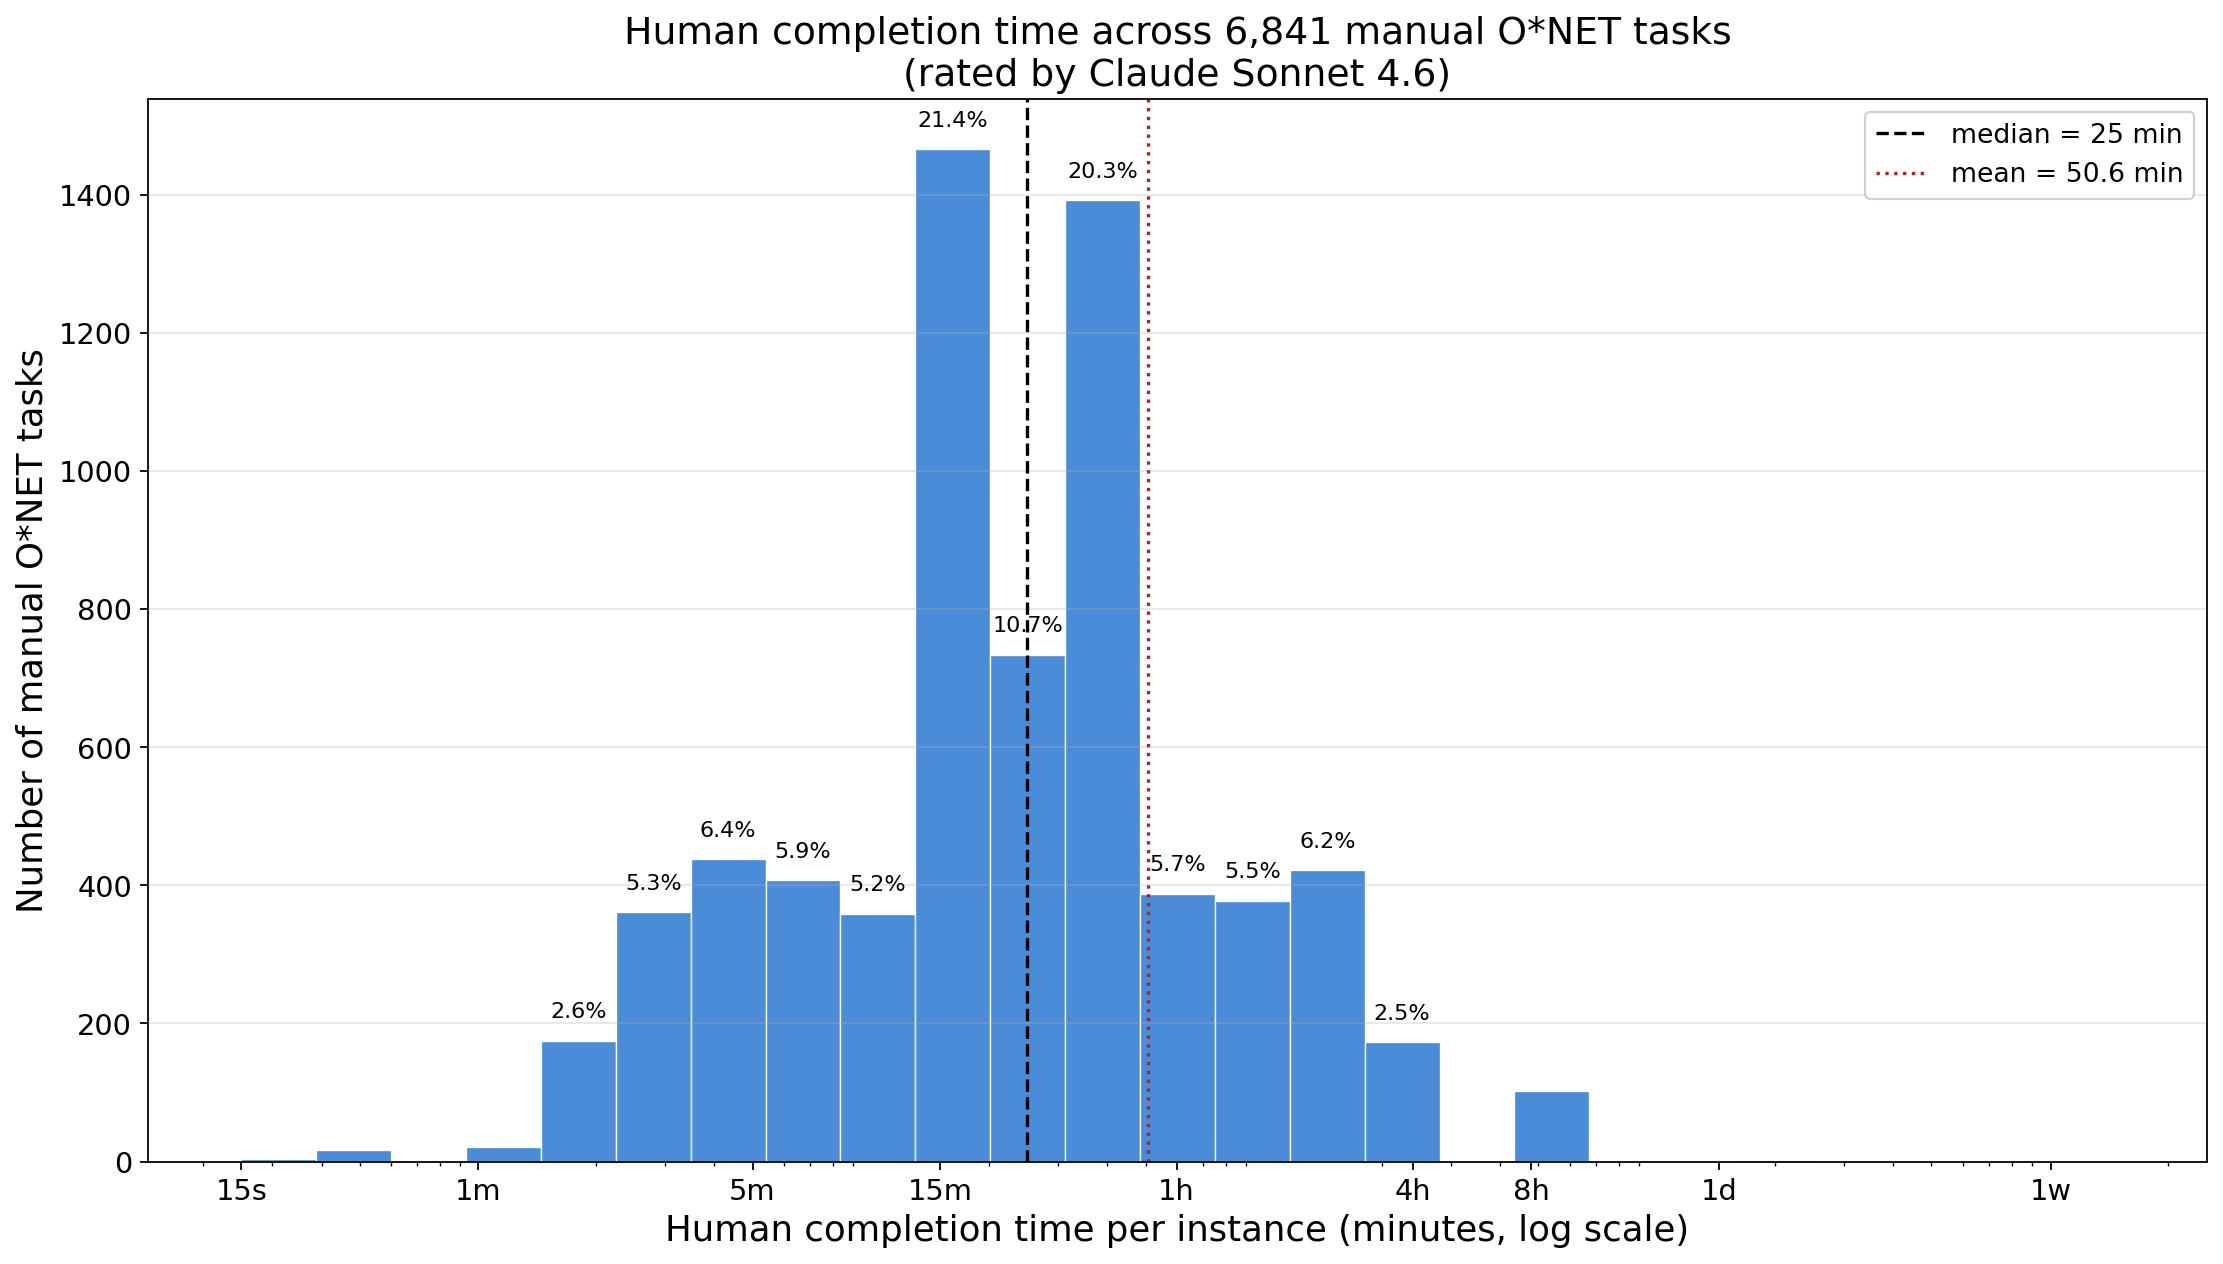
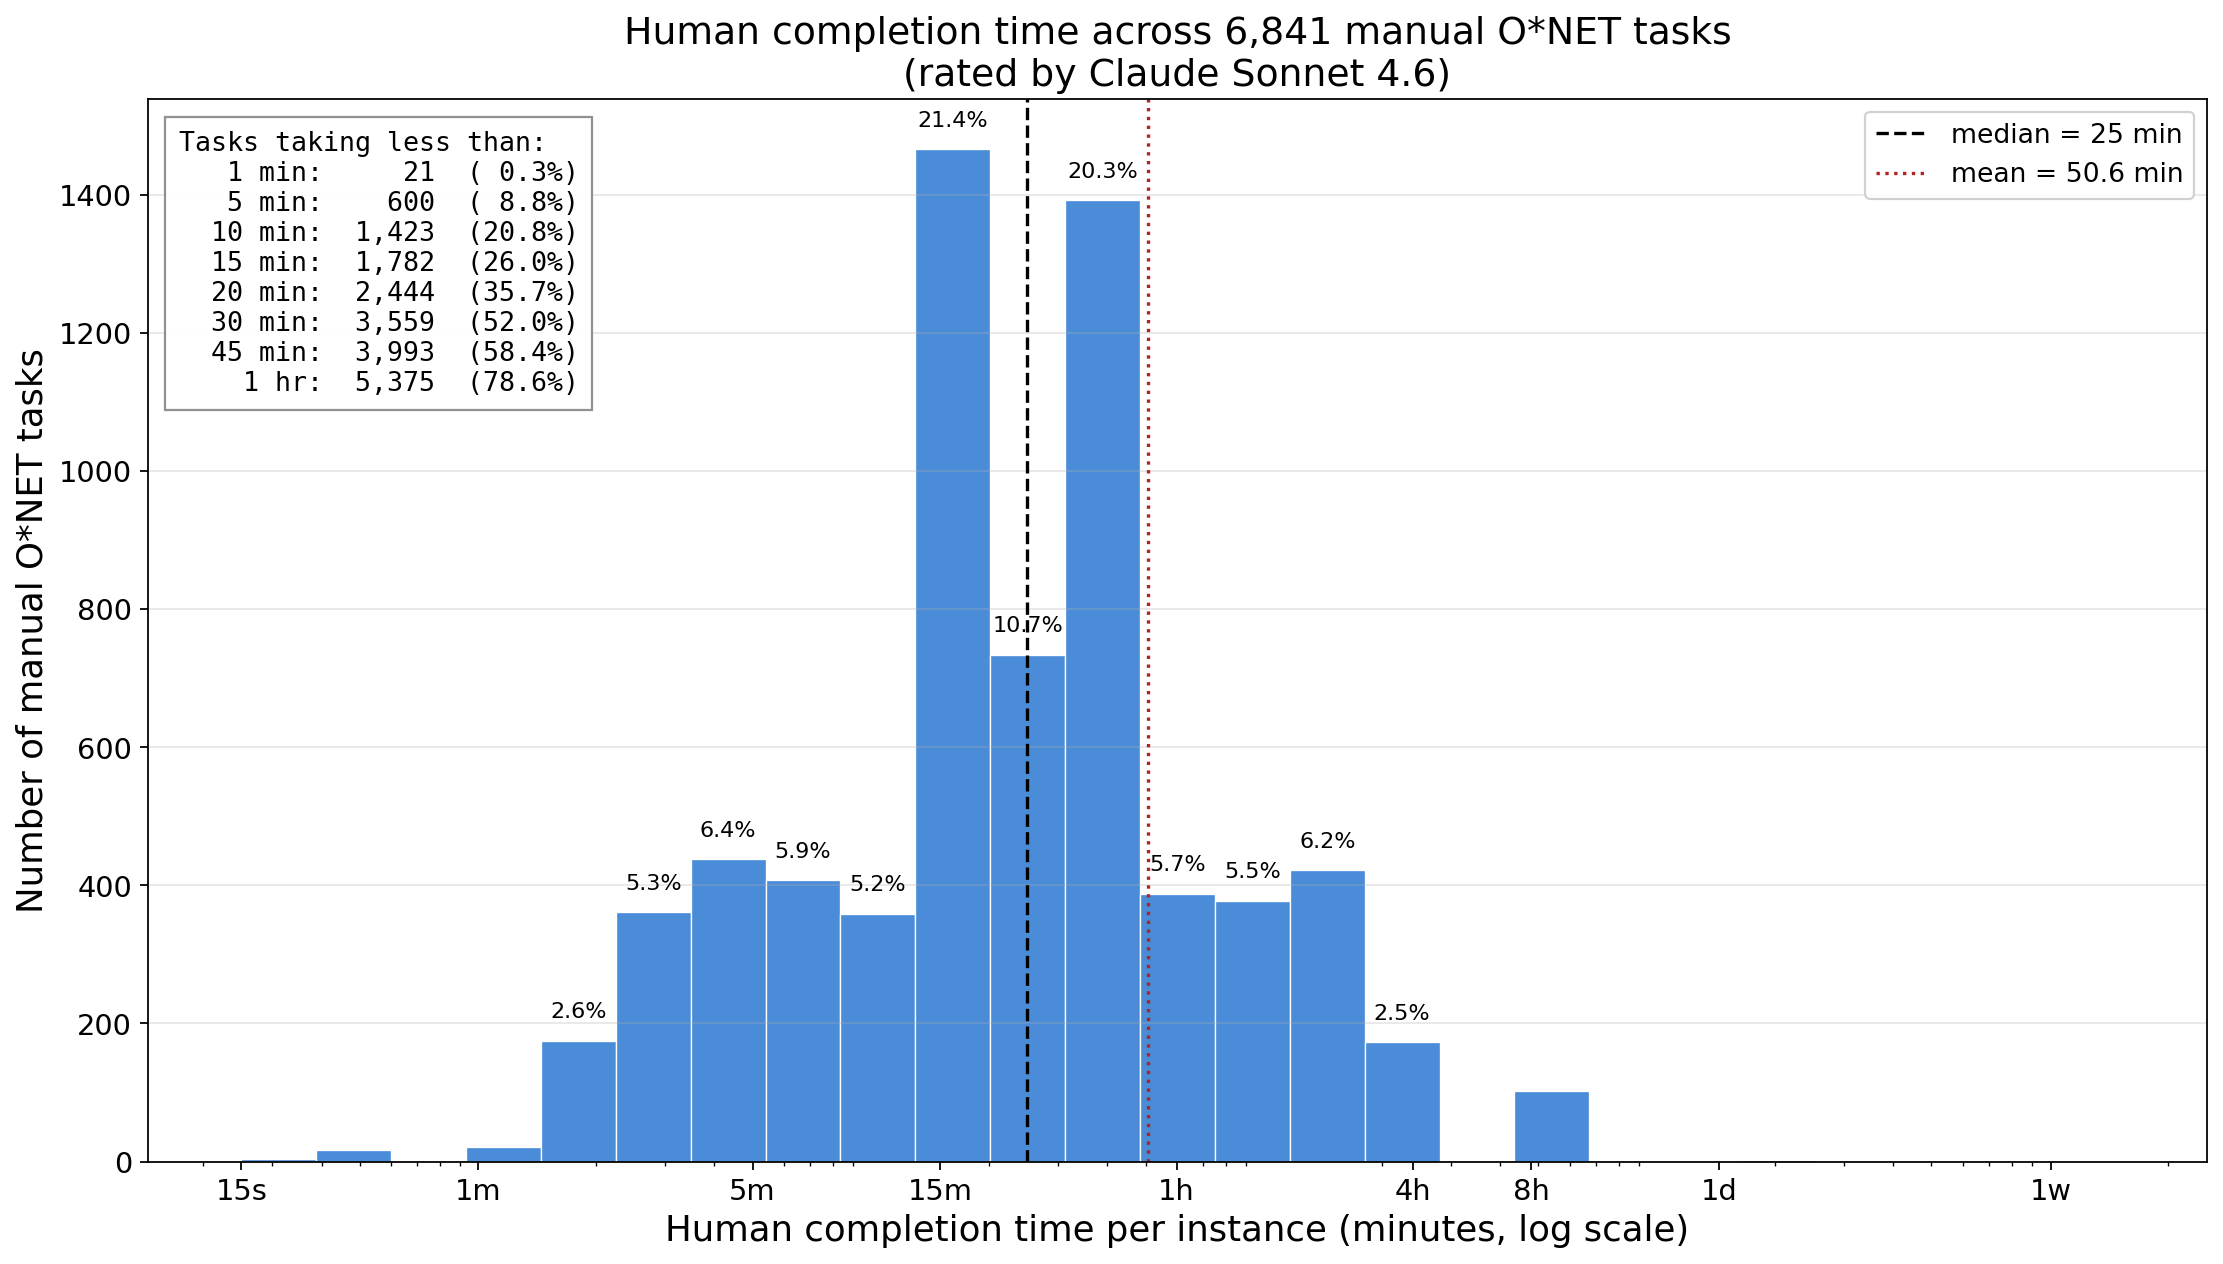
Annotate histogram with cumulative task counts under time thresholds
Shows "tasks taking less than X" for 1/5/10/15/20/30/45 min and 1 hr.
Highlights that 21% of manual O*NET tasks take <10 min per instance
and 79% take <1 hr.

Changed region(s): [[0.0621, 0.0926, 0.2794, 0.3085]]

diff --git a/src/plot_histogram.py b/src/plot_histogram.py
@@ -68,6 +68,19 @@ def main() -> None:
 
     ax.legend(fontsize=12, loc="upper right", framealpha=0.9)
 
+    thresholds = [(1, "1 min"), (5, "5 min"), (10, "10 min"), (15, "15 min"),
+                  (20, "20 min"), (30, "30 min"), (45, "45 min"), (60, "1 hr")]
+    lines = ["Tasks taking less than:"]
+    for v, lab in thresholds:
+        c = int((t < v).sum())
+        lines.append(f"  {lab:>6}:  {c:>5,}  ({c / n * 100:>4.1f}%)")
+    ax.text(
+        0.015, 0.97, "\n".join(lines),
+        transform=ax.transAxes, ha="left", va="top",
+        fontsize=12, family="monospace",
+        bbox={"facecolor": "white", "edgecolor": "#888", "alpha": 0.92, "pad": 6},
+    )
+
     fig.tight_layout()
     fig.savefig(OUT_PATH, dpi=160, bbox_inches="tight")
     print(f"wrote {OUT_PATH.relative_to(ROOT)} rows={n}")
